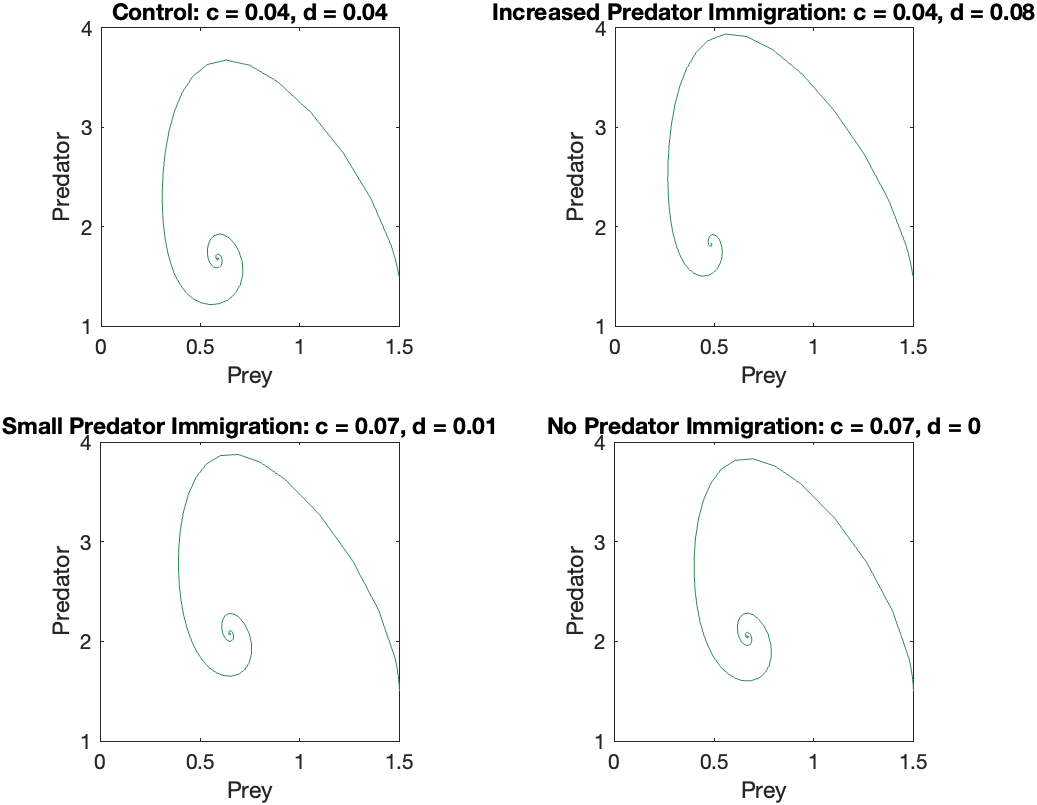
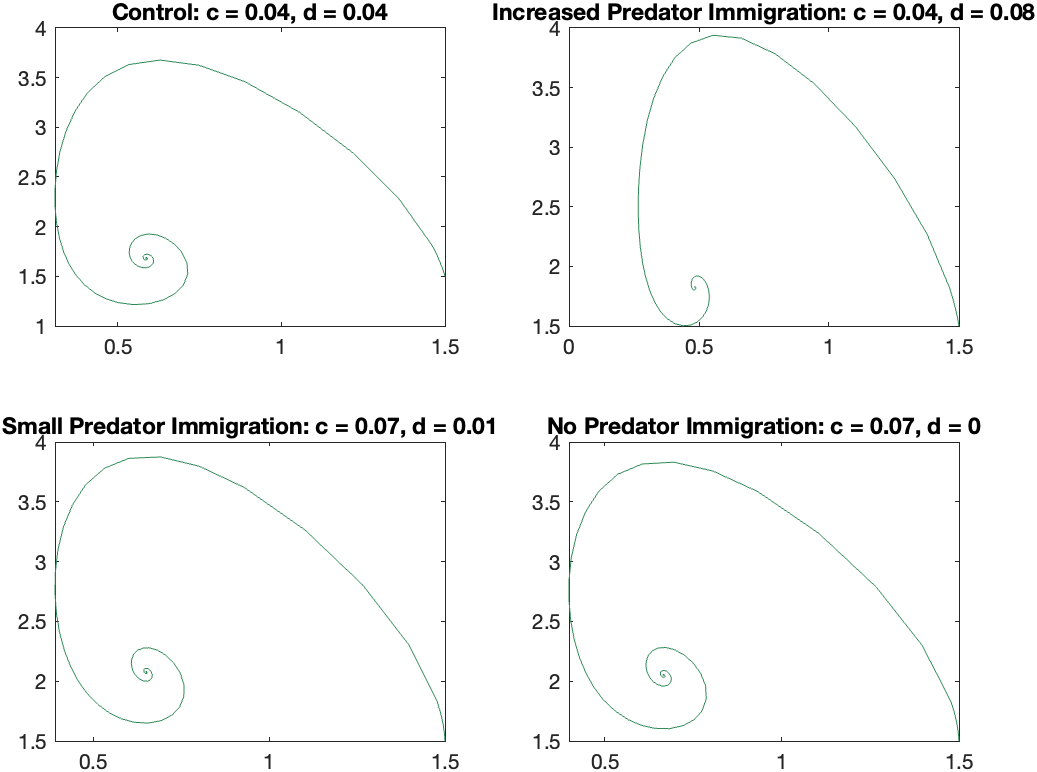
temp

diff --git a/Part1.m b/Part1.m
@@ -1,67 +1,105 @@
 % Names: Ahmad Hamzeh, Samir Afsary
-% Case Study 1: Predator-Prey Immigration Dynamics
-% Part 1: Simulations and Control Strategies
+% Case Study 1
+% Part 1
 
-%% Recreating Figure 1 - Exploring Dynamics With and Without Immigration
+%% Recreating Figure 1
 clear; clc;
-tspan = [0 1500];          % Time interval for simulation
-initial = [5 5];           % Initial populations: [prey, predator]
+tspan = [0 1500];
+initial = [5 5];
 
-% --- Case 1: With Prey Immigration ---
-% Using two different prey immigration models:
-% test1: constant prey immigration (C(x) = c)
-% test2: inverse prey immigration (C(x) = c/x)
+% With prey immigrants
 test1 = @(t, x) system(t, x, 0.1, 0.1, 0.3, 0.2, 0.01, 0);
 [t1, s1] = ode45(test1, tspan, initial);
-
 test2 = @(t, x) system_x(t, x, 0.1, 0.1, 0.3, 0.2, 0.01, 0);
 [t2, s2] = ode45(test2, tspan, initial);
 
-% Plotting prey immigration results
 figure(1);
 sgtitle('With Prey Immigrants', 'FontSize', 11, 'FontWeight', 'bold');
-
-% Add subplot annotations
 annotation('textbox', [0.42, 0.905, 1, 0.05], 'String', ...
     'C(x) = c, D(y) = 0', 'FontSize', 8, 'EdgeColor', 'none');
 annotation('textbox', [0.42, 0.48, 1, 0.05], 'String', ...
     'C(x) = c/x, D(y) = 0', 'FontSize', 8, 'EdgeColor', 'none');
+subplot(2, 2, 1)
+plot(t1, s1, 'LineWidth', 2);
+xlim([-100 1500]); 
+xticks(0:200:1500);
+ylim([-1 15]);
+yticks(0:2:14);
+axis square;
 
-% Time series and phase portrait plots for each case
-subplot(2, 2, 1); plot(t1, s1, 'LineWidth', 2); title('Time Plot (C(x) = c)');
-subplot(2, 2, 2); plot(s1(:, 1), s1(:, 2), 'Color', '#2E8B57'); title('Phase Portrait');
-subplot(2, 2, 3); plot(t2, s2, 'LineWidth', 2); title('Time Plot (C(x) = c/x)');
-subplot(2, 2, 4); plot(s2(:, 1), s2(:, 2), 'Color', '#2E8B57'); title('Phase Portrait');
+subplot(2, 2, 2);
+plot(s1(:, 1), s1(:, 2), 'Color', '#2E8B57');
+xlim([-0.2 5.1]);
+xticks(0:1:5);
+ylim([-0.5 16]);
+yticks(0:2:14);
+axis square;
 
-% Export the figure to file
+subplot(2, 2, 3)
+plot(t2, s2, 'LineWidth', 2);
+xlim([-100 1500]); 
+xticks(0:200:1500);
+ylim([-1 15]);
+yticks(0:2:14);
+axis square;
+
+subplot(2, 2, 4);
+plot(s2(:, 1), s2(:, 2), 'Color', '#2E8B57');
+xlim([-0.1 5.1]);
+xticks(0:1:5);
+ylim([0 16]);
+yticks(0:2:14);
+axis square;
+
 exportgraphics(gcf, 'Part1Plots/fig1.png');
 
-% --- Case 2: With Predator Immigration ---
-% test3: constant predator immigration (D(y) = d)
-% test4: inverse predator immigration (D(y) = d/y)
+% With predator immigrants
 test3 = @(t, x) system(t, x, 0.1, 0.1, 0.3, 0.2, 0, 0.01);
 [t3, s3] = ode45(test3, tspan, initial);
-
 test4 = @(t, x) system_x(t, x, 0.1, 0.1, 0.3, 0.2, 0, 0.01);
 [t4, s4] = ode45(test4, tspan, initial);
 
 figure(2);
 sgtitle('With Predator Immigrants', 'FontSize', 11, 'FontWeight', 'bold');
-
 annotation('textbox', [0.42, 0.905, 1, 0.05], 'String', ...
     'C(x) = 0, D(y) = d', 'FontSize', 8, 'EdgeColor', 'none');
 annotation('textbox', [0.42, 0.48, 1, 0.05], 'String', ...
     'C(x) = 0, D(y) = d/y', 'FontSize', 8, 'EdgeColor', 'none');
+subplot(2, 2, 1)
+plot(t3, s3, 'LineWidth', 2);
+xlim([-100 1500]); 
+xticks(0:200:1500);
+ylim([-1 15]);
+yticks(0:2:14);
+axis square;
 
-subplot(2, 2, 1); plot(t3, s3, 'LineWidth', 2); title('Time Plot (D(y) = d)');
-subplot(2, 2, 2); plot(s3(:, 1), s3(:, 2), 'Color', '#2E8B57'); title('Phase Portrait');
-subplot(2, 2, 3); plot(t4, s4, 'LineWidth', 2); title('Time Plot (D(y) = d/y)');
-subplot(2, 2, 4); plot(s4(:, 1), s4(:, 2), 'Color', '#2E8B57'); title('Phase Portrait');
+subplot(2, 2, 2);
+plot(s3(:, 1), s3(:, 2), 'Color', '#2E8B57');
+xlim([-0.2 5.1]);
+xticks(0:1:5);
+ylim([-0.5 16]);
+yticks(0:2:14);
+axis square;
+
+subplot(2, 2, 3)
+plot(t4, s4, 'LineWidth', 2);
+xlim([-100 1500]); 
+xticks(0:200:1500);
+ylim([-1 15]);
+yticks(0:2:14);
+axis square;
+
+subplot(2, 2, 4);
+plot(s4(:, 1), s4(:, 2), 'Color', '#2E8B57');
+xlim([-0.2 5.1]);
+xticks(0:1:5);
+ylim([-0.2 16]);
+yticks(0:2:14);
+axis square;
 
 exportgraphics(gcf, 'Part1Plots/fig2.png');
 
-% --- Case 3: No Immigration ---
-% Baseline system dynamics with no immigration (c = d = 0)
+% Without immigrants
 test5 = @(t, x) system(t, x, 0.1, 0.1, 0.3, 0.2, 0, 0);
 [t5, s5] = ode45(test5, tspan, initial);
 
@@ -69,76 +107,144 @@ figure(3);
 sgtitle('Without Immigrants', 'FontSize', 11, 'FontWeight', 'bold');
 annotation('textbox', [0.42, 0.905, 1, 0.05], 'String', ...
     'C(x) = 0, D(y) = 0', 'FontSize', 8, 'EdgeColor', 'none');
+subplot(1, 2, 1)
+plot(t5, s5, 'LineWidth', 2);
+xlim([-100 1500]); 
+xticks(0:200:1500);
+ylim([-1 15]);
+yticks(0:2:14);
+axis square;
 
-subplot(1, 2, 1); plot(t5, s5, 'LineWidth', 2); title('Time Plot');
-subplot(1, 2, 2); plot(s5(:, 1), s5(:, 2), 'Color', '#2E8B57'); title('Phase Portrait');
+subplot(1, 2, 2);
+plot(s5(:, 1), s5(:, 2), 'Color', '#2E8B57');
+xlim([-0.2 6.1]);
+xticks(0:1:6);
+ylim([-0.5 16]);
+yticks(0:2:14);
+axis square;
 
 exportgraphics(gcf, 'Part1Plots/fig3.png');
 
 
-%% Control Strategy Section
-% Simulating predator-prey control strategies using immigration
+%% Control Strategy
 clear; clc;
 tspan = [0 1500];
-initial1 = [2 2];           % Used for predator control
-initial2 = [1.5 1.5];       % Used for prey control
+initial1 = [2 2];
+initial2 = [1.5 1.5];
 
-% --- Predator Control Strategies ---
-% Trying different combinations of immigration (c: prey, d: predator)
+% controlling the predator population
 strat1 = @(t, x) system(t, x, 0.1, 0.1, 0.3, 0.2, 0.01, 0.01);
 [t6, s6] = ode45(strat1, tspan, initial1);
-
 strat2 = @(t, x) system(t, x, 0.1, 0.1, 0.3, 0.2, 0.01, 0.07);
 [t7, s7] = ode45(strat2, tspan, initial1);
-
 strat3 = @(t, x) system(t, x, 0.1, 0.1, 0.3, 0.2, 0.07, 0.01);
 [t8, s8] = ode45(strat3, tspan, initial1);
-
 strat4 = @(t, x) system(t, x, 0.1, 0.1, 0.3, 0.2, 0.07, 0.07);
 [t9, s9] = ode45(strat4, tspan, initial1);
 
+
 figure(4);
-% Plotting results of predator control strategies
-subplot(2, 2, 1); plot(s6(:, 1), s6(:, 2), 'Color', '#2E8B57');
+subplot(2, 2, 1);
+plot(s6(:, 1), s6(:, 2), 'Color', '#2E8B57');
+xlim([-0.2 2.1]);
+xticks(0:0.5:2);
+ylim([-0.5 5.1]);
+yticks(0:1:5);
+xlabel('Prey');
+ylabel('Predator');
+axis square;
 title('Control: c = 0.01, d = 0.01');
 
-subplot(2, 2, 2); plot(s7(:, 1), s7(:, 2), 'Color', '#2E8B57');
+subplot(2, 2, 2);
+plot(s7(:, 1), s7(:, 2), 'Color', '#2E8B57');
+xlim([-0.2 2.1]);
+xticks(0:0.5:2);
+ylim([-0.5 5.1]);
+yticks(0:1:5);
+xlabel('Prey');
+ylabel('Predator');
+axis square;
 title('Increasing Predator Immigration: c = 0.01, d = 0.07');
 
-subplot(2, 2, 3); plot(s8(:, 1), s8(:, 2), 'Color', '#2E8B57');
+subplot(2, 2, 3);
+plot(s8(:, 1), s8(:, 2), 'Color', '#2E8B57');
+xlim([-0.2 2.1]);
+xticks(0:0.5:2);
+ylim([-0.5 5.1]);
+yticks(0:1:5);
+xlabel('Prey');
+ylabel('Predator');
+axis square;
 title('Increasing Prey Immigration: c = 0.07, d = 0.01');
 
-subplot(2, 2, 4); plot(s9(:, 1), s9(:, 2), 'Color', '#2E8B57');
-title('Increasing Both: c = 0.07, d = 0.07');
 
+subplot(2, 2, 4);
+plot(s9(:, 1), s9(:, 2), 'Color', '#2E8B57');
+xlim([-0.2 2.1]);
+xticks(0:0.5:2);
+ylim([-0.5 5.1]);
+yticks(0:1:5);
+xlabel('Prey');
+ylabel('Predator');
+axis square;
+title('Increasing Both: c = 0.07, d = 0.07');
 exportgraphics(gcf, 'Part1Plots/Controls1.png');
 
-% --- Prey Control Strategies ---
-% Exploring different predator/prey immigration levels to manage population
+
+% controlling the prey population
 strat5 = @(t, x) system(t, x, 0.1, 0.1, 0.3, 0.2, 0.04, 0.04);
 [t10, s10] = ode45(strat5, tspan, initial2);
-
 strat6 = @(t, x) system(t, x, 0.1, 0.1, 0.3, 0.2, 0.04, 0.1);
 [t11, s11] = ode45(strat6, tspan, initial2);
-
 strat7 = @(t, x) system(t, x, 0.1, 0.1, 0.3, 0.2, 0.07, 0.01);
 [t12, s12] = ode45(strat7, tspan, initial2);
-
 strat8 = @(t, x) system(t, x, 0.1, 0.1, 0.3, 0.2, 0.07, 0);
 [t13, s13] = ode45(strat8, tspan, initial2);
 
+
 figure(5);
-% Plotting results of prey control strategies
-subplot(2, 2, 1); plot(s10(:, 1), s10(:, 2), 'Color', '#2E8B57');
+subplot(2, 2, 1);
+plot(s10(:, 1), s10(:, 2), 'Color', '#2E8B57');
+xlim([0 1.5]);
+xticks(0:0.5:1.5);
+ylim([1 4]);
+yticks(1:1:4);
+xlabel('Prey');
+ylabel('Predator');
+axis square;
 title('Control: c = 0.04, d = 0.04');
 
-subplot(2, 2, 2); plot(s11(:, 1), s11(:, 2), 'Color', '#2E8B57');
+subplot(2, 2, 2);
+plot(s11(:, 1), s11(:, 2), 'Color', '#2E8B57');
+xlim([0 1.5]);
+xticks(0:0.5:1.5);
+ylim([1 4]);
+yticks(1:1:4);
+xlabel('Prey');
+ylabel('Predator');
+axis square;
 title('Increased Predator Immigration: c = 0.04, d = 0.08');
 
-subplot(2, 2, 3); plot(s12(:, 1), s12(:, 2), 'Color', '#2E8B57');
+subplot(2, 2, 3);
+plot(s12(:, 1), s12(:, 2), 'Color', '#2E8B57');
+xlim([0 1.5]);
+xticks(0:0.5:1.5);
+ylim([1 4]);
+yticks(1:1:4);
+xlabel('Prey');
+ylabel('Predator');
+axis square;
 title('Small Predator Immigration: c = 0.07, d = 0.01');
 
-subplot(2, 2, 4); plot(s13(:, 1), s13(:, 2), 'Color', '#2E8B57');
-title('No Predator Immigration: c = 0.07, d = 0');
 
+subplot(2, 2, 4);
+plot(s13(:, 1), s13(:, 2), 'Color', '#2E8B57');
+xlim([0 1.5]);
+xticks(0:0.5:1.5);
+ylim([1 4]);
+yticks(1:1:4);
+xlabel('Prey');
+ylabel('Predator');
+axis square;
+title('No Predator Immigration: c = 0.07, d = 0');
 exportgraphics(gcf, 'Part1Plots/Controls2.png');
